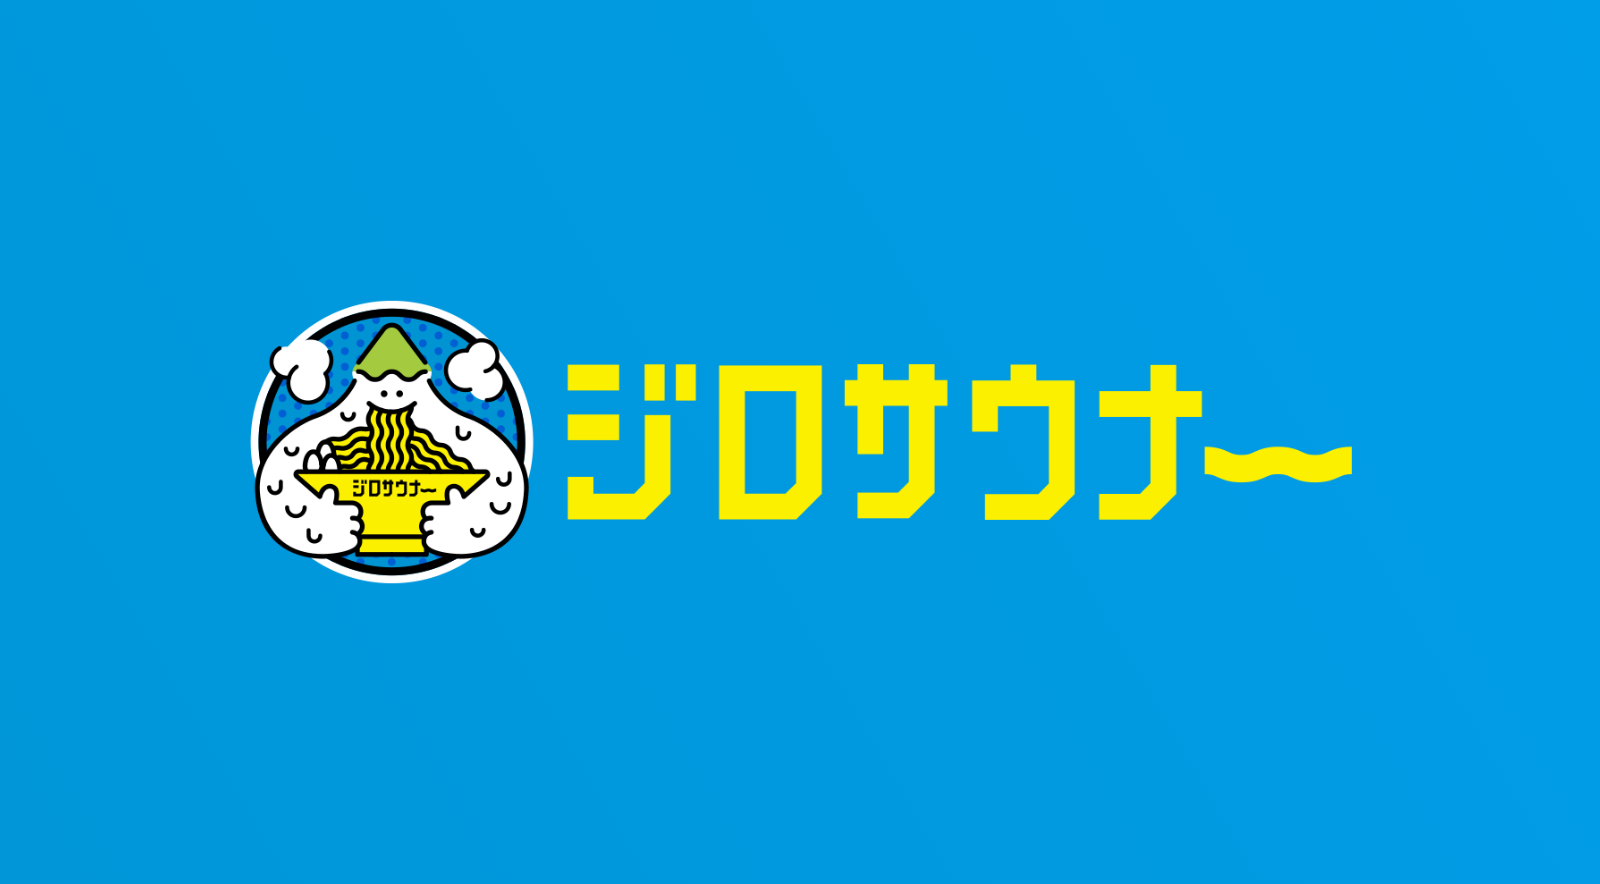
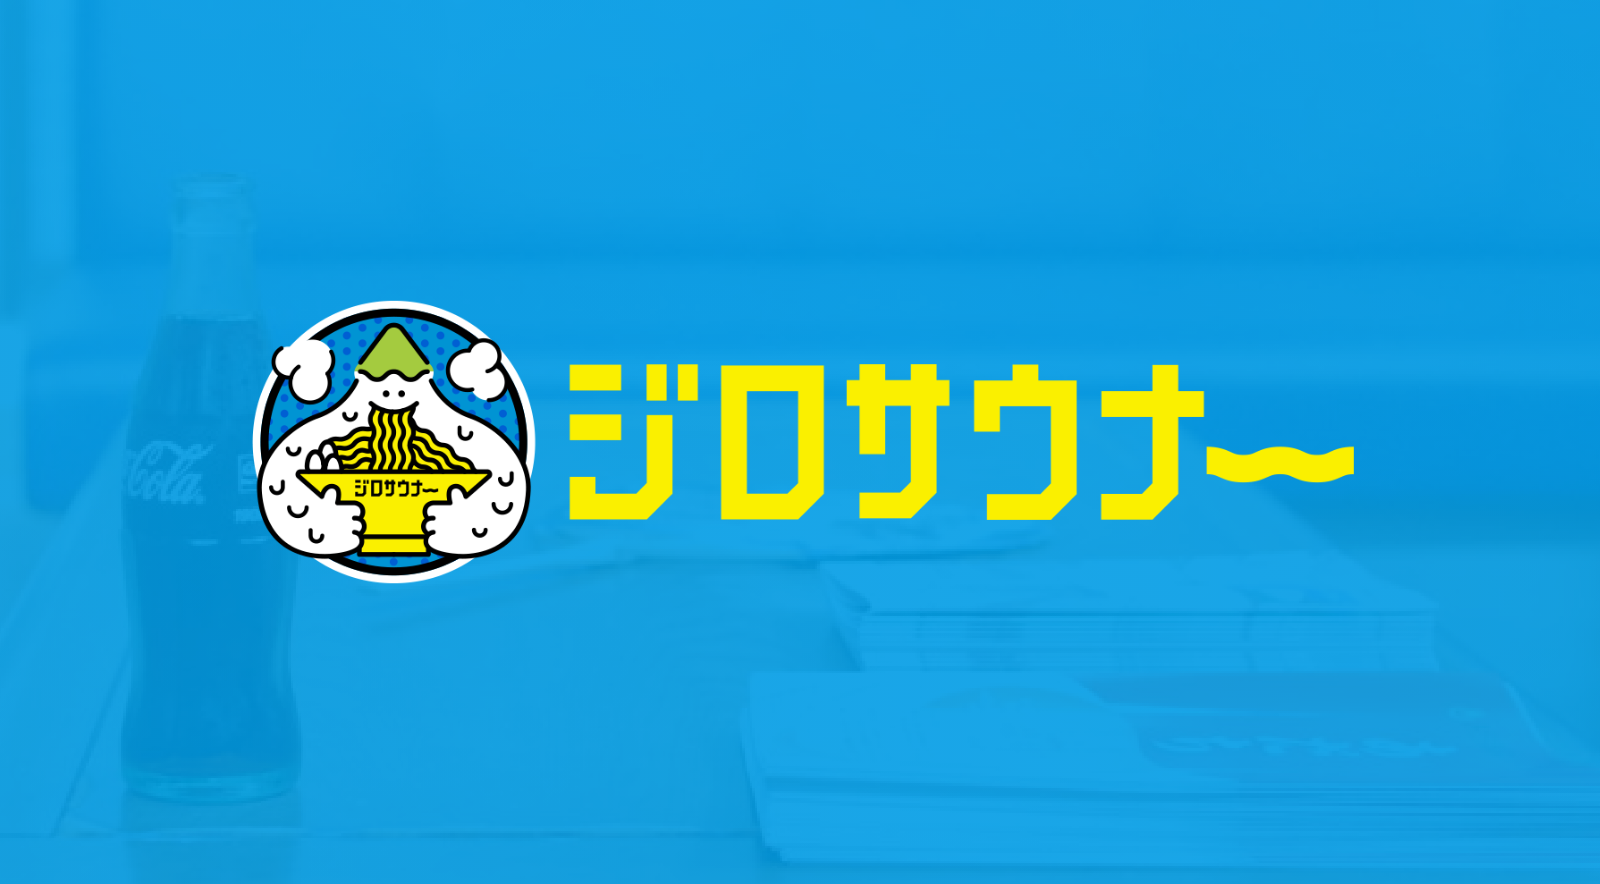
add: OGP・NO IMAGE画像の追加

diff --git a/app/models/shop.rb b/app/models/shop.rb
@@ -56,10 +56,8 @@ class Shop < ApplicationRecord
   def appearance_image
     if shop_images[0]
       shop_images[0].image
-    elsif type == 'Jiro'
-      'sample_image.jpg'
     else
-      'sample_image_sauna.jpg'
+      'no_image.png'
     end
   end
 
